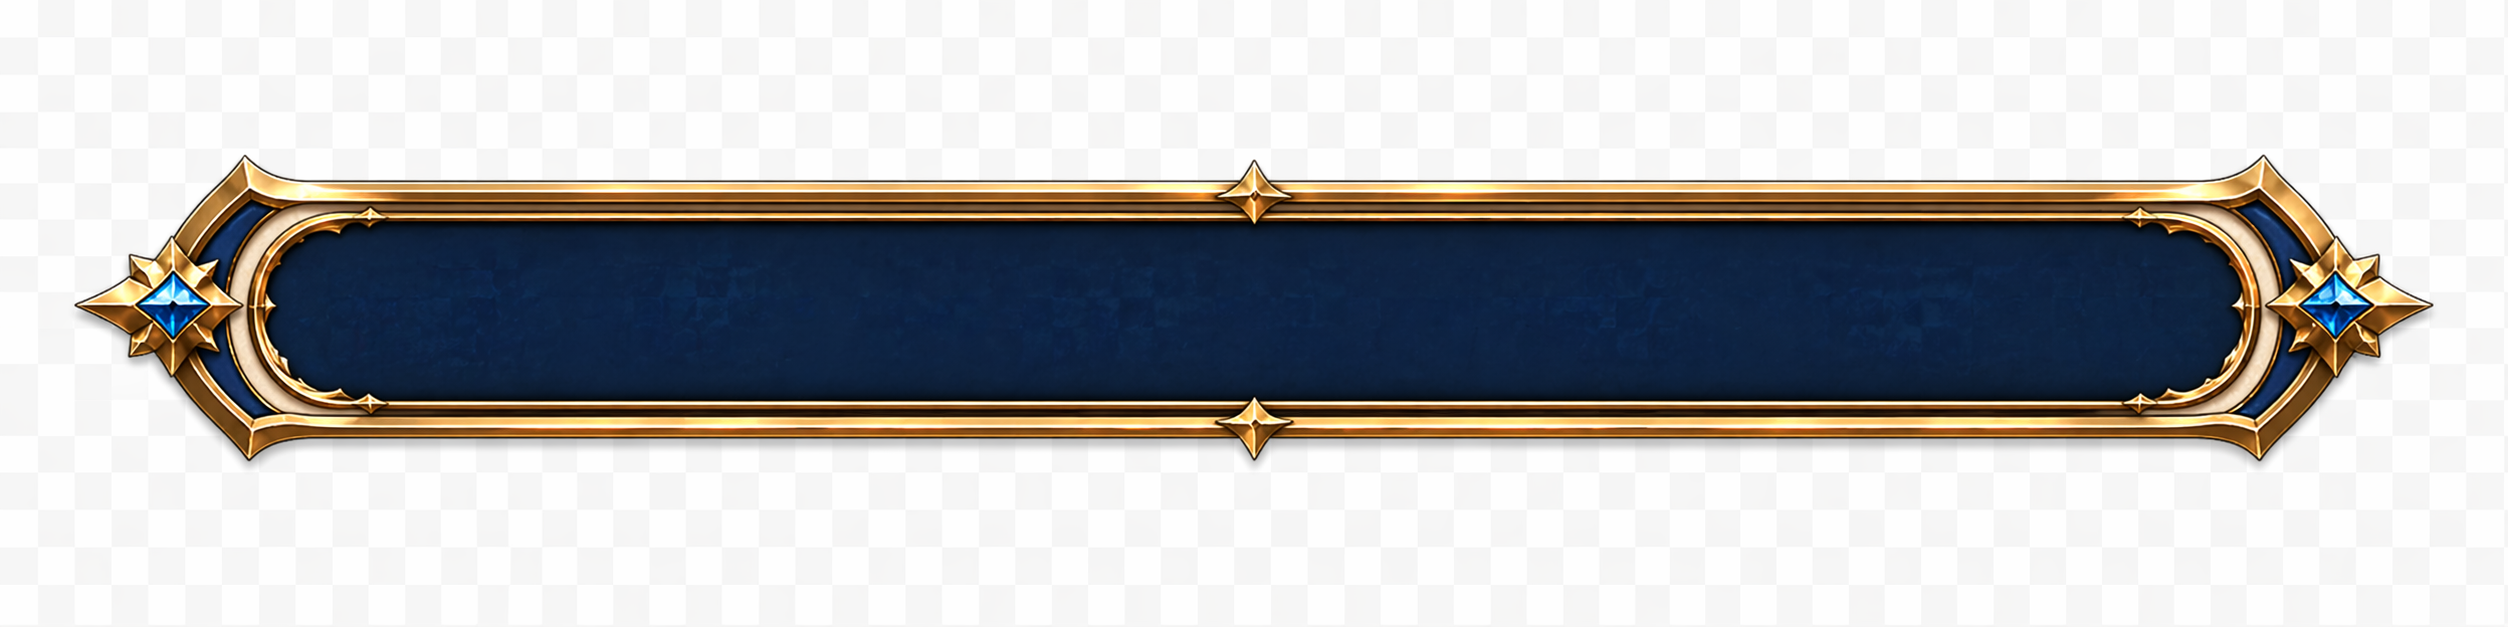
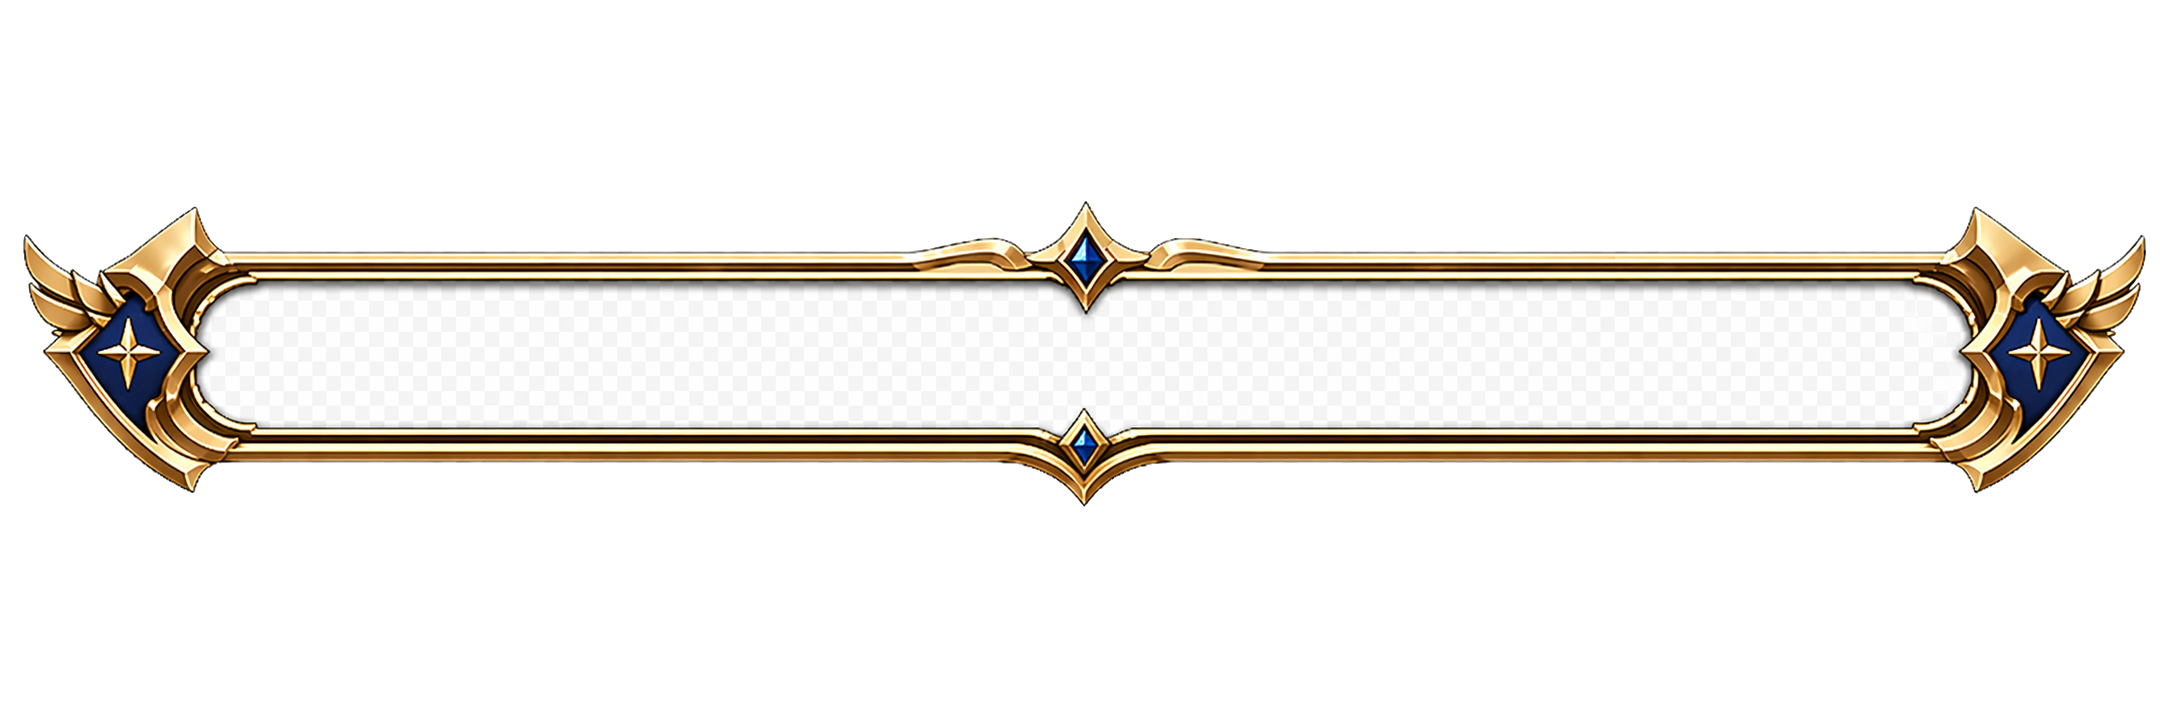
auto-commit for 2b85fc34-c558-4459-a2f1-98bdd5c7f7ec

diff --git a/frontend/app/(tabs)/home.tsx b/frontend/app/(tabs)/home.tsx
@@ -176,9 +176,12 @@ export default function HomeTab() {
       HOME_SIDE_FRAME.pressed,
       // 9 icone nav
       ...Object.values(HOME_NAV_ICON_IMAGES),
-      // Pack A Profile Panel RITIRATO (asset in RGB senza alpha → checkerboard baked).
-      // Re-aggiungere qui al re-export RGBA da parte dell'art team:
-      //   HOME_PROFILE_PANEL.frame, .avatarRing, .expBarBg, .expBarFill, .lvBadge
+      // Pack A v2 — Profile Panel (drop-in RGBA): 5 asset caricati prima del fade-in
+      HOME_PROFILE_PANEL.frame,
+      HOME_PROFILE_PANEL.avatarRing,
+      HOME_PROFILE_PANEL.expBarBg,
+      HOME_PROFILE_PANEL.expBarFill,
+      HOME_PROFILE_PANEL.lvBadge,
       // Hero home: string URI remota o require locale — preloadAssets le gestisce entrambe
       homeHero?.asset_splash || homeHero?.asset_base || homeHero?.image_url,
     ];
@@ -436,46 +439,44 @@ function HomeProfilePanel({ user, router }: any) {
         fallbackColors={['rgba(11,23,60,0.95)', 'rgba(8,15,40,0.85)']}
         style={s.profilePanel}
       >
-        {/* ROW 1 — Avatar + Nome + Lv */}
-        <View style={s.profileRow1}>
+        {/* AVATAR — dentro l'oval slot integrato nel frame (Pack A v2).
+            Non uso l'asset `avatarRing` come overlay perché il frame
+            include già la cornice oval; il portrait va direttamente
+            dentro quello slot. */}
+        <View style={s.avatarFrame} pointerEvents="box-none">
           <TouchableOpacity
             onPress={() => router.push('/profile' as any)}
             activeOpacity={0.8}
-            style={s.avatarFrame}
+            style={s.avatarInner}
           >
-            {/* AVATAR RING — asset-driven (Pack A.avatarRing). Fallback: gradient gold. */}
-            <AssetBackedGradient
-              source={HOME_PROFILE_PANEL.avatarRing}
-              fallbackColors={[GOLD_PALE, GOLD, GOLD_WARM]}
-              style={s.avatarRing}
-            >
-              <View style={s.avatarInner}>
-                {HOME_PROFILE_PANEL.avatarPlaceholder ? (
-                  <RNImage
-                    source={HOME_PROFILE_PANEL.avatarPlaceholder}
-                    style={{ width: '100%', height: '100%', borderRadius: 999 }}
-                    resizeMode="cover"
-                  />
-                ) : (
-                  <Text style={s.avatarInitial}>
-                    {String(name)[0]?.toUpperCase() || 'P'}
-                  </Text>
-                )}
-              </View>
-            </AssetBackedGradient>
-            {/* LV BADGE — asset-driven overlay (Pack A.lvBadge). Fallback: View circolare */}
-            <View style={s.lvBadge}>
-              {HOME_PROFILE_PANEL.lvBadge ? (
-                <RNImage
-                  source={HOME_PROFILE_PANEL.lvBadge}
-                  style={[StyleSheet.absoluteFillObject as any, { width: '100%', height: '100%' }]}
-                  resizeMode="contain"
-                />
-              ) : null}
-              <Text style={s.lvBadgeTxt}>{level}</Text>
-            </View>
+            {HOME_PROFILE_PANEL.avatarPlaceholder ? (
+              <RNImage
+                source={HOME_PROFILE_PANEL.avatarPlaceholder}
+                style={{ width: '100%', height: '100%' }}
+                resizeMode="cover"
+              />
+            ) : (
+              <Text style={s.avatarInitial}>
+                {String(name)[0]?.toUpperCase() || 'P'}
+              </Text>
+            )}
           </TouchableOpacity>
-          <View style={{ flex: 1, marginLeft: 10 }}>
+          {/* LV BADGE (asset Pack A v2 — stemma alato con numero sopra) */}
+          <View style={s.lvBadge} pointerEvents="none">
+            {HOME_PROFILE_PANEL.lvBadge ? (
+              <RNImage
+                source={HOME_PROFILE_PANEL.lvBadge}
+                style={[StyleSheet.absoluteFillObject as any, { width: '100%', height: '100%' }]}
+                resizeMode="contain"
+              />
+            ) : null}
+            <Text style={s.lvBadgeTxt}>{level}</Text>
+          </View>
+        </View>
+
+        {/* TEXT BLOCK — area destra del frame (dopo paddingLeft:96 del panel) */}
+        <View style={s.profileRow1}>
+          <View style={{ flex: 1 }}>
             <Text style={s.profName} numberOfLines={1}>{name}</Text>
             <View style={s.expWrap}>
               {/* EXP BAR — track + fill asset-driven. Fallback: View+gradient. */}
@@ -1341,81 +1342,87 @@ const s = StyleSheet.create({
     zIndex: 1,
   },
 
-  /* BLOCCO 3 — PROFILE PANEL */
+  /* BLOCCO 3 — PROFILE PANEL (Pack A v2 asset-driven, frame landscape 3:1) */
   profileWrap: {
-    position: 'absolute', top: 8, left: 8,
+    position: 'absolute', top: 6, left: 6,
     zIndex: 20,
-    width: 232,
+    width: 340,              // allargato per rispettare frame 3:1
+    aspectRatio: 3,          // preserva proporzioni native del frame (3:1)
   },
   profilePanel: {
-    borderRadius: 10,
-    borderWidth: 1.5, borderColor: GOLD_WARM,
-    paddingHorizontal: 8, paddingVertical: 8,
-    shadowColor: '#000', shadowOpacity: 0.6, shadowOffset: { width: 0, height: 3 }, shadowRadius: 6,
-    elevation: 8,
+    // NO border CSS legacy, NO borderRadius legacy, NO shadow:
+    // il nuovo frame asset fornisce bordo/ombra/profondità premium.
+    width: '100%', height: '100%',
+    paddingTop: 6, paddingBottom: 8,
+    paddingLeft: 96,         // spazio per oval avatar integrato nel frame
+    paddingRight: 24,
+    justifyContent: 'center',
   },
   profileRow1: { flexDirection: 'row', alignItems: 'center' },
-  avatarFrame: { position: 'relative' },
-  avatarRing: {
-    width: 46, height: 46, borderRadius: 23,
-    padding: 2,
-    shadowColor: GOLD, shadowOpacity: 0.8, shadowRadius: 6,
-  },
-  avatarInner: {
-    flex: 1, borderRadius: 21,
-    backgroundColor: NIGHT_1,
+  // Avatar dentro lo slot oval del frame (posizionamento absolute calibrato)
+  avatarFrame: {
+    position: 'absolute',
+    left: 4, top: 4, bottom: 4,
+    width: 92,
     alignItems: 'center', justifyContent: 'center',
   },
-  avatarInitial: { color: GOLD, fontSize: 20, fontWeight: '900' },
-  lvBadge: {
-    position: 'absolute', bottom: -4, right: -6,
-    backgroundColor: NIGHT_0, borderRadius: 10,
-    borderWidth: 1.5, borderColor: GOLD,
-    paddingHorizontal: 5, paddingVertical: 1, minWidth: 22, alignItems: 'center',
-  },
-  lvBadgeTxt: { color: GOLD, fontSize: 10, fontWeight: '900' },
-  profName: { color: GOLD, fontSize: 14, fontWeight: '900', letterSpacing: 0.4 },
-  expWrap: { flexDirection: 'row', alignItems: 'center', gap: 6, marginTop: 5 },
-  expBarBg: {
-    flex: 1, height: 6, backgroundColor: 'rgba(0,0,0,0.55)',
-    borderRadius: 3, overflow: 'hidden',
+  // Portrait circle: si inscrive nell'oval del frame
+  avatarInner: {
+    width: 62, height: 72, borderRadius: 36,  // oval leggermente verticale come il frame
+    overflow: 'hidden',
+    backgroundColor: NIGHT_1,
+    alignItems: 'center', justifyContent: 'center',
     borderWidth: 1, borderColor: 'rgba(255,215,0,0.35)',
   },
+  avatarInitial: { color: GOLD, fontSize: 24, fontWeight: '900' },
+  lvBadge: {
+    position: 'absolute',
+    bottom: -2, right: 2,
+    width: 34, height: 34,
+    alignItems: 'center', justifyContent: 'center',
+    // NO backgroundColor / NO border CSS: l'asset lvBadge fornisce la forma completa.
+  },
+  lvBadgeTxt: { color: '#fff', fontSize: 12, fontWeight: '900', textShadowColor: '#000', textShadowOffset: { width: 0, height: 1 }, textShadowRadius: 2 },
+  profName: { color: GOLD, fontSize: 15, fontWeight: '900', letterSpacing: 0.4 },
+  expWrap: { flexDirection: 'row', alignItems: 'center', gap: 6, marginTop: 4 },
+  expBarBg: {
+    flex: 1, height: 10,
+    borderRadius: 5, overflow: 'hidden',
+    // Fallback color se l'asset expBarBg è undefined; col nuovo asset RGBA questo
+    // è trasparente-coperto.
+    backgroundColor: 'rgba(0,0,0,0.35)',
+  },
   expBarFill: { height: '100%' },
-  expTxt: { color: '#E8E8F0', fontSize: 8, fontWeight: '800' },
+  expTxt: { color: '#E8E8F0', fontSize: 9, fontWeight: '800' },
 
   powerRow: {
     flexDirection: 'row', alignItems: 'center', gap: 4,
-    marginTop: 6, paddingVertical: 3, paddingHorizontal: 6,
-    backgroundColor: 'rgba(255,215,0,0.08)',
-    borderRadius: 5,
-    borderWidth: 1, borderColor: 'rgba(255,215,0,0.30)',
+    marginTop: 4, paddingVertical: 2, paddingHorizontal: 6,
+    // Niente border/bg CSS: coerenza con panel asset-driven.
+    borderRadius: 4,
   },
   powerIcon: { fontSize: 12 },
   powerLbl: { color: GOLD_PALE, fontSize: 9, fontWeight: '900', letterSpacing: 0.6 },
   powerVal: { color: '#fff', fontSize: 11, fontWeight: '900', marginLeft: 'auto' },
 
-  pillsRow: { flexDirection: 'row', gap: 5, marginTop: 5 },
+  pillsRow: { flexDirection: 'row', gap: 5, marginTop: 3 },
   vipPill: {
     flexDirection: 'row', alignItems: 'center', gap: 3,
-    backgroundColor: 'rgba(178,34,34,0.55)',
-    paddingHorizontal: 6, paddingVertical: 2, borderRadius: 4,
-    borderWidth: 1, borderColor: GOLD,
+    backgroundColor: 'rgba(178,34,34,0.45)',
+    paddingHorizontal: 6, paddingVertical: 2, borderRadius: 3,
   },
   vipStar: { color: GOLD, fontSize: 9 },
   vipTxt: { color: GOLD, fontSize: 9, fontWeight: '900' },
   spiritoPill: {
     flexDirection: 'row', alignItems: 'center', gap: 3,
-    backgroundColor: 'rgba(60,20,120,0.55)',
-    paddingHorizontal: 6, paddingVertical: 2, borderRadius: 4,
-    borderWidth: 1, borderColor: '#B05CFF',
+    backgroundColor: 'rgba(60,20,120,0.45)',
+    paddingHorizontal: 6, paddingVertical: 2, borderRadius: 3,
   },
   spiritoIco: { fontSize: 9 },
   spiritoTxt: { color: '#FFE0FF', fontSize: 9, fontWeight: '900' },
   titleBadge: {
-    marginTop: 5, paddingVertical: 3, paddingHorizontal: 6,
-    backgroundColor: 'rgba(15,33,72,0.75)',
-    borderRadius: 4, borderLeftWidth: 2, borderLeftColor: GOLD,
+    marginTop: 2, paddingVertical: 2, paddingHorizontal: 6,
+    // Niente borderLeft/bg CSS: il frame ha già uno slot "titolo" in basso.
   },
   titleTxt: { color: '#D8E0FF', fontSize: 10, fontWeight: '700', fontStyle: 'italic' },
 

diff --git a/frontend/constants/homeAssetsManifest.ts b/frontend/constants/homeAssetsManifest.ts
@@ -149,26 +149,14 @@ export type ProfilePanelAssets = {
   titleBadge?: any;
 };
 export const HOME_PROFILE_PANEL: ProfilePanelAssets = {
-  // ⚠ Pack A RITIRATO dall'integrazione runtime.
-  // Motivo tecnico: TUTTI i 10 PNG del pack (panel_frame, avatar_ring,
-  // exp_bar_bg/fill, level_badge + i nuovi panel_left/middle/right_cap
-  // ed exp_left/middle_cap) sono stati esportati in modalità RGB SENZA
-  // canale alpha. Il pattern a scacchi / matte bianco visibile nel
-  // runtime è pixel veri dentro l'asset, non artifact del renderer.
-  //
-  // Finché l'art team non riesporta il pack in RGBA con alpha pulito,
-  // il profile panel resta sul fallback gradient originale (premium,
-  // coerente con il resto della home).
-  //
-  // Per re-integrare: rimettere i require qui sotto UNA VOLTA
-  // verificato (PIL / Photoshop) che im.mode == 'RGBA' e che i
-  // pixel di background hanno alpha=0.
-  //
-  // frame:      require('../assets/home_panels/profile/home_profile_panel_frame.png'),
-  // avatarRing: require('../assets/home_panels/profile/home_profile_avatar_ring.png'),
-  // expBarBg:   require('../assets/home_panels/profile/home_profile_exp_bar_bg.png'),
-  // expBarFill: require('../assets/home_panels/profile/home_profile_exp_bar_fill.png'),
-  // lvBadge:    require('../assets/home_panels/profile/home_profile_level_badge.png'),
+  // Pack A v2 (RGBA, verified). Asset depositati in assets/home_panels/profile/.
+  // Tutti e 5 verificati via PIL: mode='RGBA', corners alpha=0, transparent% >= 49.
+  // Frame aspect ratio 3:1 (landscape) → container profileWrap adattato di conseguenza.
+  frame:      require('../assets/home_panels/profile/home_profile_panel_frame.png'),
+  avatarRing: require('../assets/home_panels/profile/home_profile_avatar_ring.png'),
+  expBarBg:   require('../assets/home_panels/profile/home_profile_exp_bar_bg.png'),
+  expBarFill: require('../assets/home_panels/profile/home_profile_exp_bar_fill.png'),
+  lvBadge:    require('../assets/home_panels/profile/home_profile_level_badge.png'),
 };
 
 /* ───── Pack B — Currency Bar (TOP-RIGHT) ───── */
